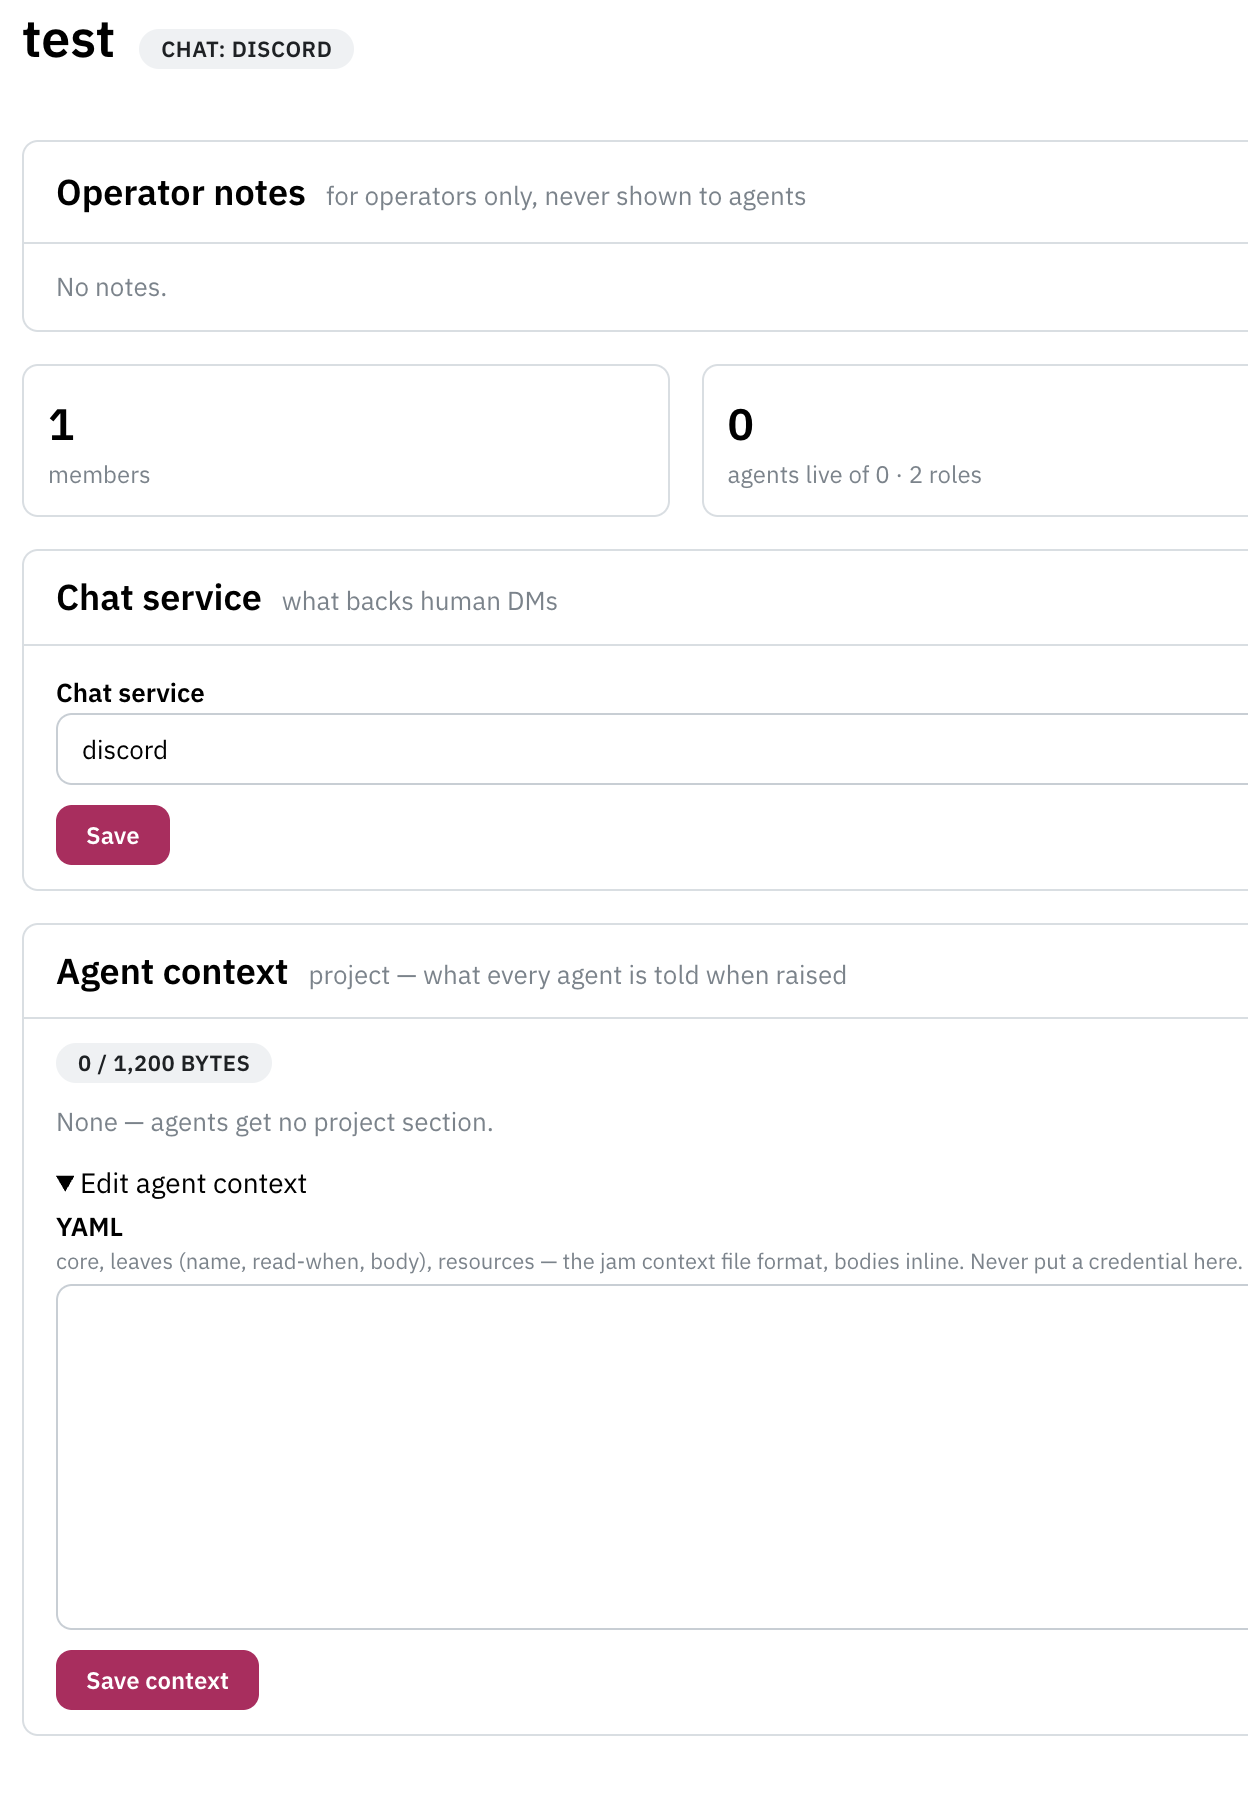
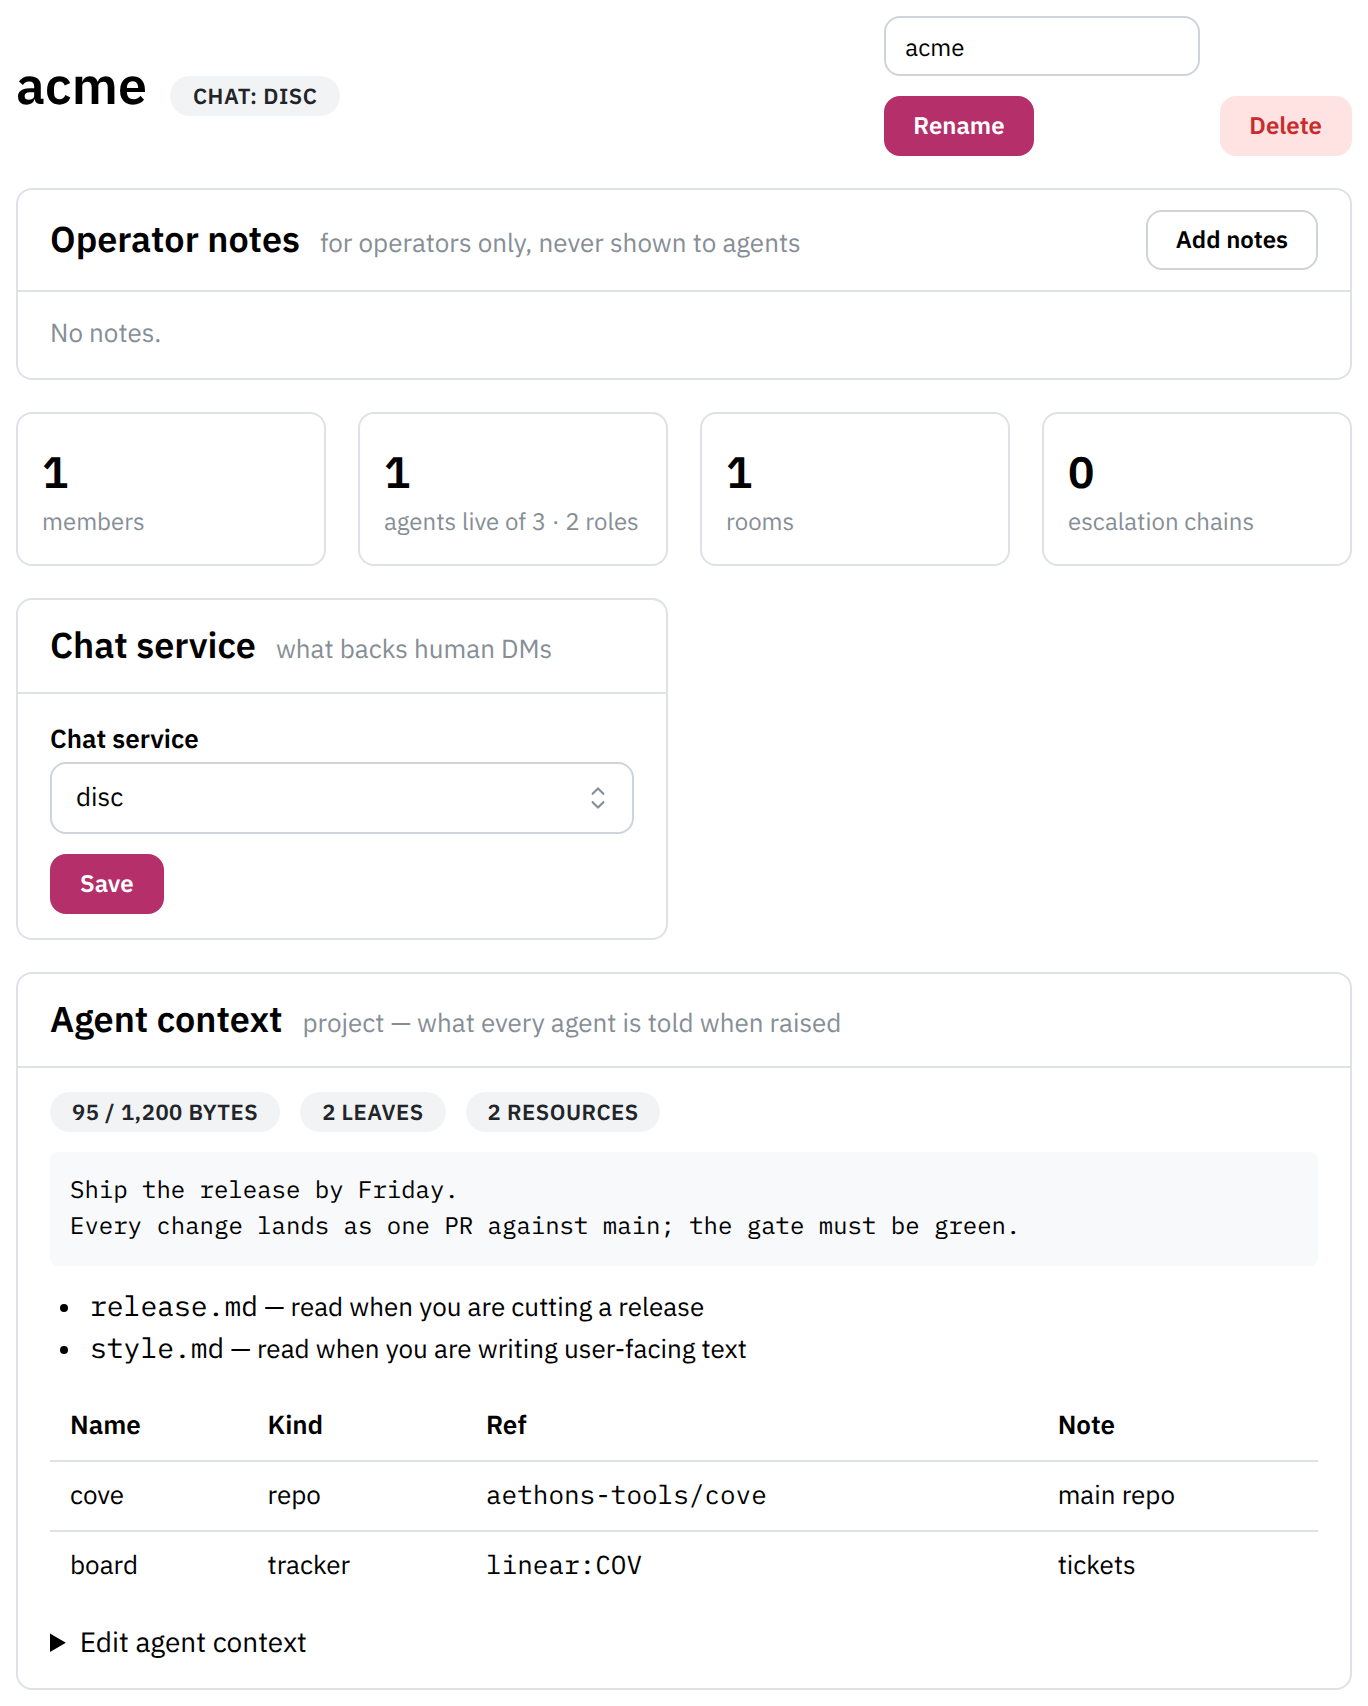
manual: `just manual-shot` takes manual screenshots on mock data (COV-285)
scripts/manual-shot.sh runs web/app/scripts/shot.mjs: Vite serves the app
with a mock API (vite.shot.config.ts, build/mockApi.ts answering from
src/shots/mocks.ts, built from the tests' fixtures), and the kit's headless
Chrome (JAM_BROWSER overrides) shoots a route over the DevTools protocol,
optionally cropped to a selector. Loopback only, light scheme, no
animations, fonts loaded: reruns give identical bytes.

Regenerates manual/modules/projects/images/project-page.png with a
filled-in Agent context card, and documents the command in docs/manual.md.

diff --git a/web/app/src/shots/mocks.ts b/web/app/src/shots/mocks.ts
@@ -1,0 +1,43 @@
+// The mock API that `just manual-shot` serves the app on
+// (vite.shot.config.ts, build/mockApi.ts; docs/manual.md): each key is
+// "METHOD /path" (with its query, or without to match any), each value the
+// JSON answer, built from the tests' fixtures. A request with no entry
+// answers 404 and is logged, so a new screenshot shows what it still needs.
+import type { ConfigBranches, TreeNode, TreeResponse } from "../admin/api/types";
+import { adminBoot } from "../admin/fixtures";
+import { filledContext, project } from "../admin/projects/fixtures";
+
+const leaf = (path: string, label: string): TreeNode => ({ path, label, group: false, badge: 0, badgeRed: false, badgeTitle: "", children: [] });
+const group = (path: string, label: string, ...children: TreeNode[]): TreeNode => ({ ...leaf(path, label), group: true, children });
+
+const acme = "config/projects/acme";
+const tree: TreeResponse = {
+  nodes: [
+    leaf("config/tracking", "Tracking"),
+    group("config/projects", "Projects", group(acme, "acme",
+      group(acme + "/members", "Members", leaf(acme + "/members/usr_1", "alice")),
+      group(acme + "/agents", "Agents", leaf(acme + "/agents/coder", "coder"), leaf(acme + "/agents/reviewer", "reviewer")),
+      leaf(acme + "/intercom", "Intercom"),
+      leaf(acme + "/escalation", "Escalation"),
+    )),
+    group("config/users", "Users", leaf("config/users/usr_1", "alice")),
+    group("config/kits", "Kits"),
+    group("config/destinations", "Destinations"),
+    group("config/model-specs", "Model Specs"),
+  ],
+};
+
+const branches: ConfigBranches = {
+  branches: [
+    { name: "main", head: "4f2a9c1e0b7d", short: "4f2a9c1", followed: true },
+    { name: "jam/docs", head: "9b81d07a3c22", short: "9b81d07", followed: false },
+  ],
+  followed: "main", defaultName: "jam/local-admin", canPR: false, repoLink: "", treeLink: "", prNoun: "pull request",
+};
+
+export const mocks: Record<string, unknown> = {
+  "GET /app/admin/api/bootstrap": adminBoot,
+  "GET /app/admin/api/tree": tree,
+  "GET /app/admin/api/config/branches": branches,
+  "GET /app/admin/api/projects/acme": project({ chatService: "disc", context: filledContext }),
+};

diff --git a/web/app/src/admin/projects/fixtures.ts b/web/app/src/admin/projects/fixtures.ts
@@ -9,3 +9,19 @@ export const project = (p: Partial<ProjectDetail> = {}): ProjectDetail => ({
   roles: 2, agents: 3, liveAgents: 1, escalation: [], defaultChain: { category: "", tiers: [], spec: "" },
   context: emptyContext, logConfigured: true, squawks: [], notes: { markdown: "", html: "" }, ...p,
 });
+
+// filledContext is a project's agent context with a core, leaves and
+// resources (the manual's project-page screenshot shows it).
+export const filledContext: ContextPanel = {
+  scope: "project", core: "Ship the release by Friday.\nEvery change lands as one PR against main; the gate must be green.\n", coreBytes: 95, budget: 1200,
+  over: false, empty: false, showResources: true,
+  leaves: [
+    { name: "release.md", readWhen: "you are cutting a release" },
+    { name: "style.md", readWhen: "you are writing user-facing text" },
+  ],
+  resources: [
+    { name: "cove", kind: "repo", ref: "aethons-tools/cove", note: "main repo" },
+    { name: "board", kind: "tracker", ref: "linear:COV", note: "tickets" },
+  ],
+  yaml: "core: |\n  Ship the release by Friday.\n  Every change lands as one PR against main; the gate must be green.\nleaves:\n  - name: release.md\n    read-when: you are cutting a release\n    body: |\n      # Cutting a release\n  - name: style.md\n    read-when: you are writing user-facing text\n    body: |\n      # Style\nresources:\n  - {name: cove, kind: repo, ref: aethons-tools/cove, note: main repo}\n  - {name: board, kind: tracker, ref: \"linear:COV\", note: tickets}\n",
+};

diff --git a/web/app/build/mockApi.ts b/web/app/build/mockApi.ts
@@ -1,0 +1,28 @@
+import type { Plugin } from "vite";
+
+// mockApi answers the app's API routes (/app/user/api/, /app/admin/api/) from
+// a module's `mocks` (src/shots/mocks.ts: "METHOD /path[?query]" → JSON),
+// loaded through Vite so it reuses the tests' TypeScript fixtures. Anything
+// else under those routes answers the API's 404 and is logged.
+export function mockApi(module: string): Plugin {
+  return {
+    name: "jam-mock-api",
+    configureServer(server) {
+      server.middlewares.use(async (req, res, next) => {
+        const url = new URL(req.url ?? "/", "http://localhost");
+        if (!/^\/app\/(user|admin)\/api\//.test(url.pathname)) return next();
+        const { mocks } = (await server.ssrLoadModule(module)) as { mocks: Record<string, unknown> };
+        const key = `${req.method} ${url.pathname}`;
+        const body = mocks[key + url.search] ?? mocks[key];
+        res.setHeader("Content-Type", "application/json");
+        if (body === undefined) {
+          server.config.logger.warn(`mock-api: no mock for ${key}${url.search}`);
+          res.statusCode = 404;
+          res.end(JSON.stringify({ error: "no mock", code: "not_found" }));
+          return;
+        }
+        res.end(JSON.stringify(body));
+      });
+    },
+  };
+}

diff --git a/web/app/src/admin/test/render.tsx b/web/app/src/admin/test/render.tsx
@@ -8,13 +8,7 @@ import { theme } from "../../theme";
 import { adminRoutes } from "../AdminApp";
 import { ADMIN } from "../paths";
 
-const tab = (key: string, label: string, href: string) => ({ key, label, href, badge: 0, badgeRed: false, badgeTitle: "" });
-
-// adminBoot is a loopback admin's bootstrap (no user: no Inbox tab).
-export const adminBoot: Bootstrap = {
-  brand: "Acme Jam", name: "local admin", initial: "L", roles: "admin", member: false, signOut: false,
-  tabs: [tab("dashboard", "Dashboard", ADMIN), tab("config", "Config", ADMIN + "config/tracking"), tab("agents", "Agents", ADMIN + "agents"), tab("health", "Health", ADMIN + "health")],
-};
+export { adminBoot } from "../fixtures";
 
 export function renderAdmin(b: Bootstrap, path = ADMIN, client = new QueryClient({ defaultOptions: { queries: { retry: false } } })) {
   const router = createMemoryRouter(adminRoutes(b), { initialEntries: [path] });

diff --git a/web/app/src/admin/fixtures.ts b/web/app/src/admin/fixtures.ts
@@ -1,0 +1,10 @@
+import type { Bootstrap } from "./api/types";
+import { ADMIN } from "./paths";
+
+const tab = (key: string, label: string, href: string) => ({ key, label, href, badge: 0, badgeRed: false, badgeTitle: "" });
+
+// adminBoot is a loopback admin's bootstrap (no user: no Inbox tab).
+export const adminBoot: Bootstrap = {
+  brand: "Acme Jam", name: "local admin", initial: "L", roles: "admin", member: false, signOut: false,
+  tabs: [tab("dashboard", "Dashboard", ADMIN), tab("config", "Config", ADMIN + "config/tracking"), tab("agents", "Agents", ADMIN + "agents"), tab("health", "Health", ADMIN + "health")],
+};

diff --git a/web/app/vite.shot.config.ts b/web/app/vite.shot.config.ts
@@ -1,0 +1,10 @@
+import { defineConfig, mergeConfig } from "vite";
+import base from "./vite.config.ts";
+import { mockApi } from "./build/mockApi.ts";
+
+// The app on mock data, for manual screenshots (`just manual-shot`,
+// scripts/shot.mjs): the dev server answers the API from src/shots/mocks.ts
+// instead of proxying it to a Jam.
+const config = mergeConfig(base, defineConfig({ plugins: [mockApi("/src/shots/mocks.ts")] }));
+config.server.proxy = undefined;
+export default config;

diff --git a/docs/manual.md b/docs/manual.md
@@ -1,10 +1,10 @@
 ---
-summary: The Jam manual in manual/ — the user-facing manual in AsciiDoc built with Antora, its released, next and goal versions (from the release, main and goal branches), the page shape and conventions attributes, the in-repo UI, marking content internal (team-only pages, areas and passages the customer build drops), and `just manual` / `manual-site` / `manual-check`.
-read_when: You are changing anything a Jam user can see (its manual page changes in the same PR), writing or editing a manual page, marking content team-only, proposing a change on the goal branch, or building the manual.
-owns: the manual/ tree, its build (antora playbooks, manual/ui, just manual and manual-site), the branch-to-version model, the page attributes (page-area, page-id, page-conventions), and marking content internal (manual/extensions, just manual-check)
+summary: The Jam manual in manual/ — the user-facing manual in AsciiDoc built with Antora, taking its screenshots (`just manual-shot`), its released, next and goal versions (from the release, main and goal branches), the page shape and conventions attributes, the in-repo UI, marking content internal (team-only pages, areas and passages the customer build drops), and `just manual` / `manual-site` / `manual-check`.
+read_when: You are changing anything a Jam user can see (its manual page changes in the same PR), writing or editing a manual page, taking or refreshing a screenshot, marking content team-only, proposing a change on the goal branch, or building the manual.
+owns: the manual/ tree, its screenshots (just manual-shot, web/app/src/shots), its build (antora playbooks, manual/ui, just manual and manual-site), the branch-to-version model, the page attributes (page-area, page-id, page-conventions), and marking content internal (manual/extensions, just manual-check)
 prereqs: superpowers/specs/2026-11-05-manual-first-operating-model-design.md for why the manual leads the work
 tier: leaf
-updated: 2026-11-06
+updated: 2026-11-07
 ---
 
 # The Jam manual (`manual/`)
@@ -56,6 +56,36 @@ Pages live in `manual/modules/<area>/pages/`, images in
 Write one clause per line (semantic line breaks) so diffs read clause by clause.
 Content for the team only is marked internal (below).
 On `main`, images are real screenshots; on `goal`, mockups.
+
+## Screenshots
+
+A PR that changes a page refreshes its screenshots with `just manual-shot`
+(`scripts/manual-shot.sh` → `web/app/scripts/shot.mjs`):
+
+```sh
+just manual-shot 'admin/config/projects/acme?branch=jam/docs' \
+  --selector 'main > .mantine-Stack-root' --width 1000 \
+  --out manual/modules/projects/images/project-page.png
+```
+
+- It serves the app with Vite on mock data (`web/app/vite.shot.config.ts`):
+  the API answers from `web/app/src/shots/mocks.ts`, a map of
+  `"METHOD /path"` (query optional) to JSON built from the tests'
+  `fixtures.ts`. A request with no entry answers 404 and is logged as
+  `mock-api: no mock for …`: add the entry. `?branch=<name>` in the route
+  opens a config branch, so edit controls show.
+- It shoots with the kit's headless Chrome
+  (`/opt/chrome-headless-shell/chrome-headless-shell`; `JAM_BROWSER`
+  overrides), which resolves no host but loopback.
+- Flags: `--out` (from the repo root), `--selector` (crop to the first match,
+  plus `--pad`, default 8 CSS px; without it, the whole page), `--width`
+  (default 1280) and `--height` (800; grown to the page), `--scale` (device
+  pixels per CSS pixel, default 2).
+- Output is deterministic: light scheme, no animations or caret, fonts
+  (the bundled IBM Plex) loaded, the network quiet. Rerunning on unchanged
+  code and mocks, with the same Chrome, gives the same bytes.
+- To refresh, rerun the command that made the image; record a new image's
+  command in the PR.
 
 ## Marking content internal
 

diff --git a/docs/web-app.md b/docs/web-app.md
@@ -34,6 +34,7 @@ Inbox at the cutover. Old links keep working: `src/routes/Home.tsx` redirects th
   - `src/push/` is the app-level PWA plumbing: `sw.ts` registers the `/app/` service worker (`appui/sw.js`) from the bundle; `push.ts` + `PushToggle` are the Notifications item (ported from the old server-rendered `push.js`, keeping its `jam.push.synced:` marker; Sign out unsubscribes this device first); `useFocusReport` posts `/app/user/push/focus` (its `setFocusSink` seam lets the extension report instead); `useAppBadge` sets the icon badge from the rail's unread total. The page head (manifest, icons; no inline script) is `appui.HeadMeta`, put at `index.html`'s `<!--jam:head-->` by `webapp.Config.Head`.
   - `src/blobs.ts` resolves attachment and thumbnail URLs (`setBlobResolver` fetches them through the extension); `src/host.ts`' `HostContext` is what an embedding shell offers shared components (a `signIn`).
   - `src/vscode/` is the VS Code webview entry: `Pane` (every pane's shell: sign-in, no session, gone or a failed lookup, else the pane's body), `panes.tsx` (`SessionBody`, which provides `HostContext.openPreview`; `SessionGate`), `BoardTab.tsx` (the board editor tab; boards sync through the API client, so `setTransport`), `Bridge` (messages with the extension; `install` wires the seams: the five, plus `setFeedOpener` (`session/thinking/useThinkingFeed.ts`)), `linkAction` (`links.ts`; every click becomes an intent, a scroll or nothing) and `NavBridge`. `src/bridge/protocol.ts` is the message types, shared with `web/vscode`. What it shows: [vscode.md](usage/jam/vscode.md#panes).
+  - `src/shots/mocks.ts` is the mock API the manual's screenshots run on (`vite.shot.config.ts`; [manual.md](manual.md#screenshots)).
   - `src/sounds/` ports the old `sounds.js`, keeping its localStorage (`jam-sounds`) and IndexedDB (`jam`/`prefs`) contract with the service worker.
   - `src/live/useLiveEvents.ts` is the one `EventSource`: each signal invalidates query keys (`rail`, `conversation`, `presence`, `session`; `presence` all but `conversation`), with the 30 s `POLL_MS` as the fallback; its `setLiveSource` seam swaps in the extension's stream.
   - An expired sign-in links back to the current page, so the gate decides how to sign in again; queries never retry an expired sign-in or a 4xx (`shouldRetry`).

diff --git a/docs/INDEX.md b/docs/INDEX.md
@@ -18,7 +18,7 @@ open only that doc, and stop when you have enough.
 | [DEVELOPMENT.md](DEVELOPMENT.md) | You are building or testing this repo inside the egress-locked dev sandbox and `go` or `just` won't fetch or build. |
 | [local-build.md](local-build.md) | You want a local Jam whose studios run on images you just built (`just local`), or see "local studio base" in `jam version`, or a release build refused a `local.txt`. |
 | [web-app.md](web-app.md) | You are changing the Jam app (`web/app`: the user area at `/app/user/`, the admin console at `/app/admin/`), adding an `/app/user/api` or `/app/admin/api` route it reads, or building/testing it. |
-| [manual.md](manual.md) | You are changing anything a Jam user can see (its manual page changes in the same PR), writing a manual page, marking content team-only, proposing a change on the goal branch, or building the manual. |
+| [manual.md](manual.md) | You are changing anything a Jam user can see (its manual page changes in the same PR), writing a manual page, taking or refreshing its screenshots, marking content team-only, proposing a change on the goal branch, or building the manual. |
 | [usage/INDEX.md](usage/INDEX.md) | You are running one of the binaries (`jam`, `jam-colima`) and need its flags, config, or I/O contract. |
 | [superpowers/](superpowers/) | You need the design history — dated specs (`specs/`) and implementation plans (`plans/`) — behind a structural decision. |
 | [TODO.md](TODO.md) | You want the loose backlog of known follow-ups not yet filed as tickets. |
